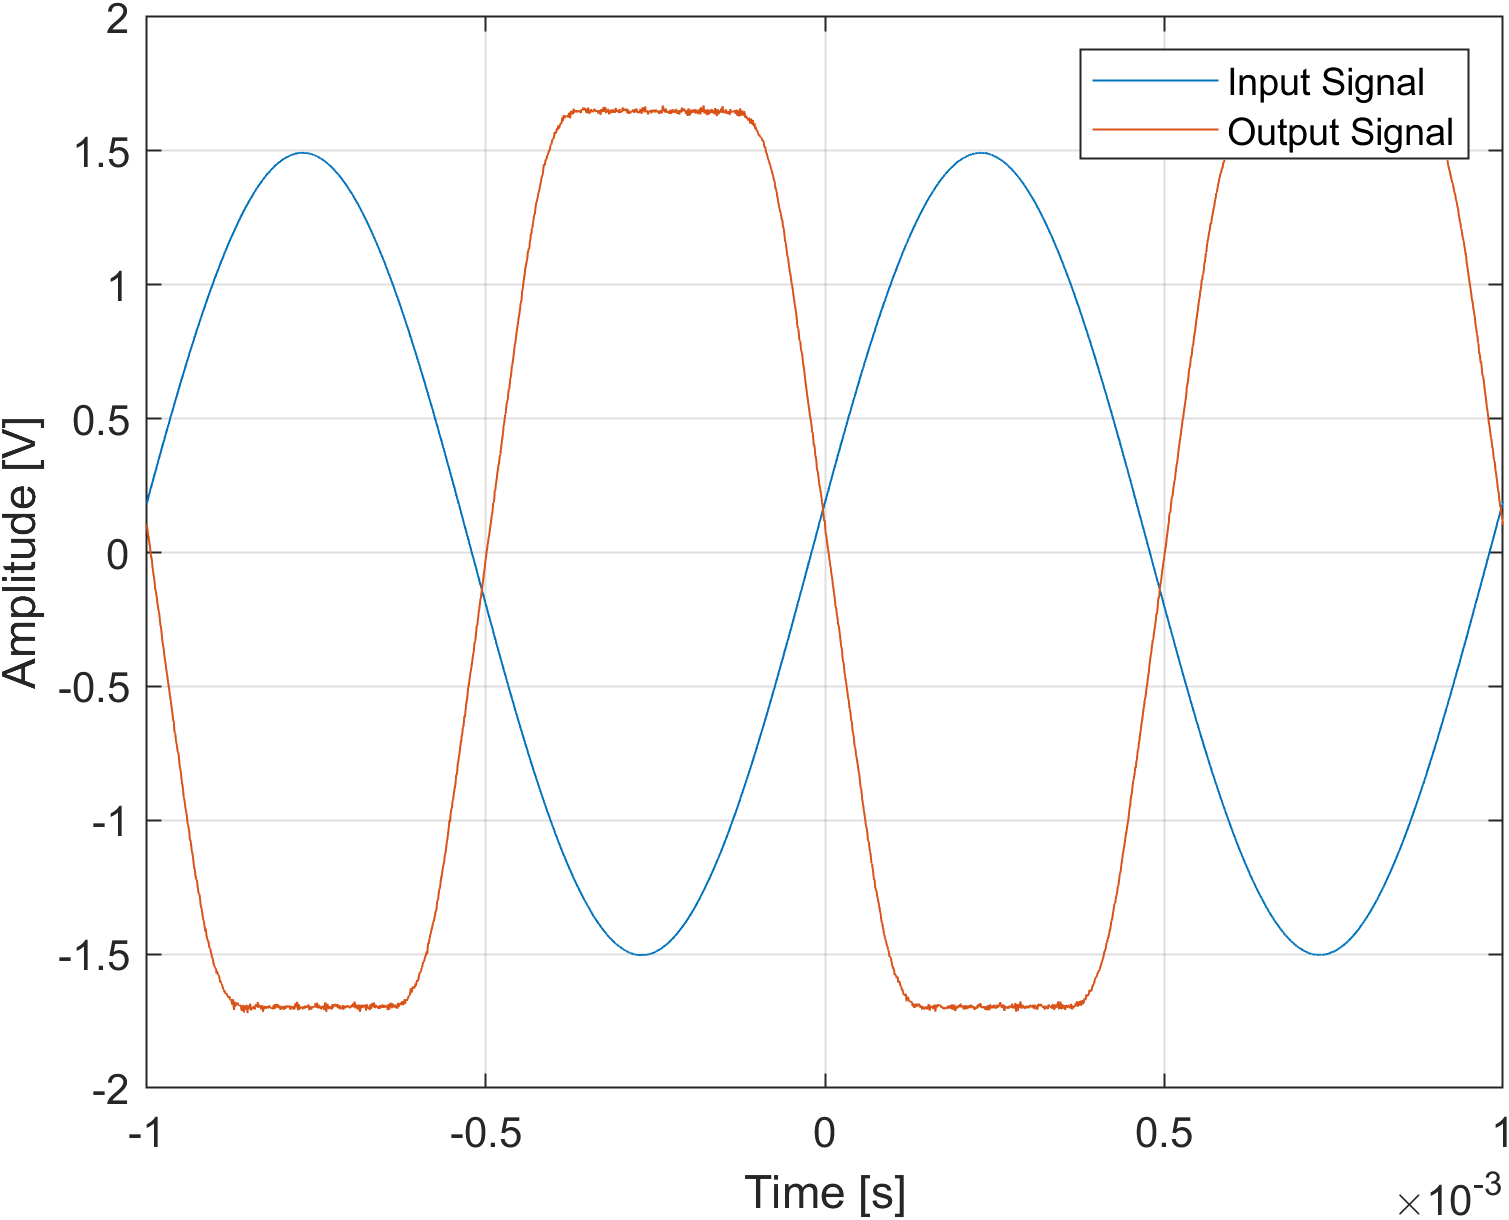
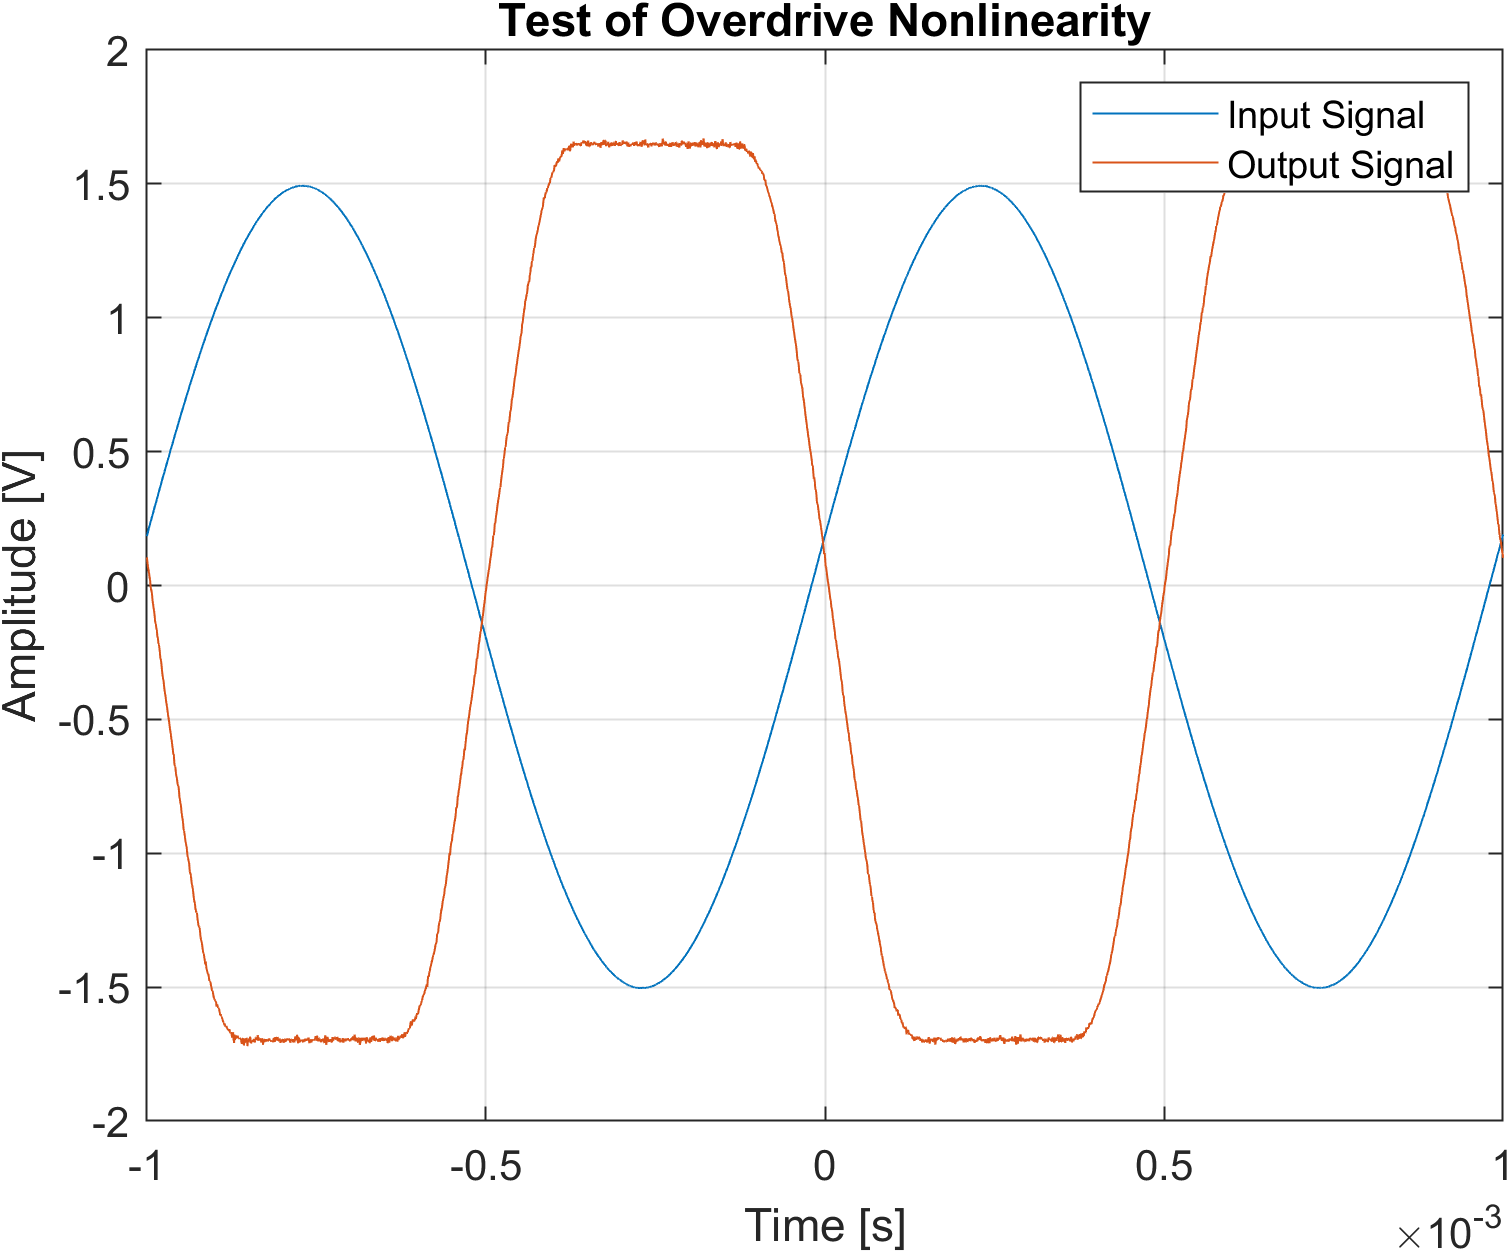
revise figure

diff --git a/gitfigures/system_design/overdrive/overdrive_non_linear_test.m b/gitfigures/system_design/overdrive/overdrive_non_linear_test.m
@@ -1,77 +1,77 @@
 clc; close all; clear;
 
 % Read data
-data = readmatrix('overdrive_non_linear_test.csv');
-time = data(:, 1);
-input = data(:, 2);
-output = data(:, 3);
-
+data = readtable('overdrive_non_linear_test.csv');
+% time = data(:, 1);
+% input = data(:, 2);
+% output = data(:, 3);
+% 
 % Step 1: Find intersection point (where input ≈ output)
-diff_signal = abs(input - output);
-[~, idx_intersect] = min(diff_signal);   % Index of minimum difference
-t_intersect = time(idx_intersect);       % Time at intersection
-
+% diff_signal = abs(input - output);
+% [~, idx_intersect] = min(diff_signal);   % Index of minimum difference
+% t_intersect = time(idx_intersect);       % Time at intersection
+% 
 % Step 2: Shift time so that intersection point is at t = 0
-time_shifted = time - t_intersect;
-
+% time_shifted = time - t_intersect;
+% 
 % Max values
-max_vol1 = max(input);
-max_vol2 = max(output);
-
+% max_vol1 = max(input);
+% max_vol2 = max(output);
+% 
 % Plot
-figH = figure;
-fig_1 = plot(time_shifted, input, 'b', 'LineWidth', 1);
-hold on;
-fig_2 = plot(time_shifted, output, 'r', 'LineWidth', 1);
-xlim([-0.00025+4.3972e-6 0.00025+4.3972e-6]);
-i = yline(max_vol1, '--', 'LineWidth', 1.5, 'Color', 'blue');
-o = yline(max_vol2, '--', 'LineWidth', 1.5, 'Color', 'r');
-xline(0, 'LineWidth', 1.5, ...
-    'Label', '0', ...
-    'LabelOrientation','horizontal', ...
-    'LabelHorizontalAlignment', 'right', ...
-    'LabelVerticalAlignment', 'top', 'FontSize', 12);
-
-xline(0.00025 * 1/3, 'LineWidth', 1.5, ...
-    'Label', '1/3', ...
-    'LabelOrientation','horizontal', ...
-    'LabelHorizontalAlignment', 'right', ...
-    'LabelVerticalAlignment', 'top', 'FontSize', 12);
-
-xline(0.00025 * 2/3, 'LineWidth', 1.5, ...
-    'Label', '2/3', ...
-    'LabelOrientation','horizontal', ...
-    'LabelHorizontalAlignment', 'right', ...
-    'LabelVerticalAlignment', 'top', 'FontSize', 12);
-
-
-xlabel('Time (s)', 'FontSize', 14);
-ylabel('Voltage (V)', 'FontSize', 14);
-title('Test of Overdrive Nonlinearity', 'FontSize', 16);
-
-legend([fig_1, fig_2, i, o], ...
-    'Input', ...
-    'Output', ...
-    ['Max Input Voltage = ' num2str(max_vol1, '%.3f') ' V'], ...
-    ['Max Output Voltage = ' num2str(max_vol2, '%.4f') ' V'], ...
-    'Location', 'southwest', 'Fontsize', 10);
-grid on;
-
-saveFolder = fullfile(pwd);
-filePath = fullfile(saveFolder, sprintf('%s.png','overdrive_nonlinearity_test_fig1'));
-exportgraphics(figH, filePath, 'Resolution', 300);
-
 % figH = figure;
-% title('Test of Overdrive Nonlinearity');
-% plot(data.Time_s_,data.Channel1_V_);
-% hold on
-% plot(data.Time_s_,data.Channel2_V_);
-% xlim([-1e-3 1e-3]);
-% grid on
-% legend('Input Signal','Output Signal');
-% ylabel('Amplitude [V]');
-% xlabel('Time [s]');
+% fig_1 = plot(time_shifted, input, 'b', 'LineWidth', 1);
+% hold on;
+% fig_2 = plot(time_shifted, output, 'r', 'LineWidth', 1);
+% xlim([-0.00025+4.3972e-6 0.00025+4.3972e-6]);
+% i = yline(max_vol1, '--', 'LineWidth', 1.5, 'Color', 'blue');
+% o = yline(max_vol2, '--', 'LineWidth', 1.5, 'Color', 'r');
+% xline(0, 'LineWidth', 1.5, ...
+%     'Label', '0', ...
+%     'LabelOrientation','horizontal', ...
+%     'LabelHorizontalAlignment', 'right', ...
+%     'LabelVerticalAlignment', 'top', 'FontSize', 12);
+% 
+% xline(0.00025 * 1/3, 'LineWidth', 1.5, ...
+%     'Label', '1/3', ...
+%     'LabelOrientation','horizontal', ...
+%     'LabelHorizontalAlignment', 'right', ...
+%     'LabelVerticalAlignment', 'top', 'FontSize', 12);
+% 
+% xline(0.00025 * 2/3, 'LineWidth', 1.5, ...
+%     'Label', '2/3', ...
+%     'LabelOrientation','horizontal', ...
+%     'LabelHorizontalAlignment', 'right', ...
+%     'LabelVerticalAlignment', 'top', 'FontSize', 12);
+% 
+% 
+% xlabel('Time (s)', 'FontSize', 14);
+% ylabel('Voltage (V)', 'FontSize', 14);
+% title('Test of Overdrive Nonlinearity', 'FontSize', 16);
+% 
+% legend([fig_1, fig_2, i, o], ...
+%     'Input', ...
+%     'Output', ...
+%     ['Max Input Voltage = ' num2str(max_vol1, '%.3f') ' V'], ...
+%     ['Max Output Voltage = ' num2str(max_vol2, '%.4f') ' V'], ...
+%     'Location', 'southwest', 'Fontsize', 10);
+% grid on;
 % 
 % saveFolder = fullfile(pwd);
-% filePath = fullfile(saveFolder, sprintf('%s.png','overdrive_nonlinearity_test_fig'));
+% filePath = fullfile(saveFolder, sprintf('%s.png','overdrive_nonlinearity_test_fig1'));
 % exportgraphics(figH, filePath, 'Resolution', 300);
+
+figH = figure;
+plot(data.Time_s_,data.Channel1_V_);
+hold on
+plot(data.Time_s_,data.Channel2_V_);
+xlim([-1e-3 1e-3]);
+grid on
+legend('Input Signal','Output Signal');
+ylabel('Amplitude [V]');
+xlabel('Time [s]');
+title('Test of Overdrive Nonlinearity');
+
+saveFolder = fullfile(pwd);
+filePath = fullfile(saveFolder, sprintf('%s.png','overdrive_nonlinearity_test_fig'));
+exportgraphics(figH, filePath, 'Resolution', 300);
